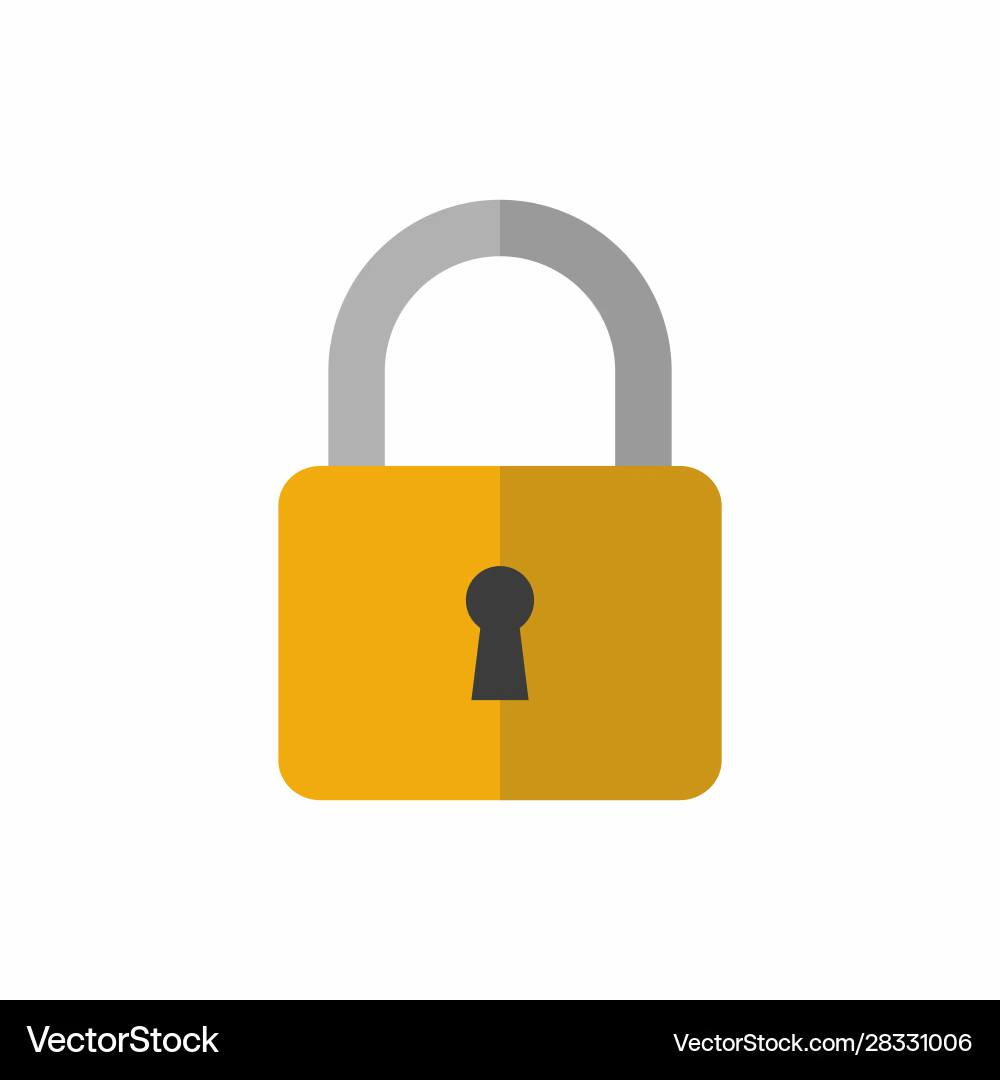
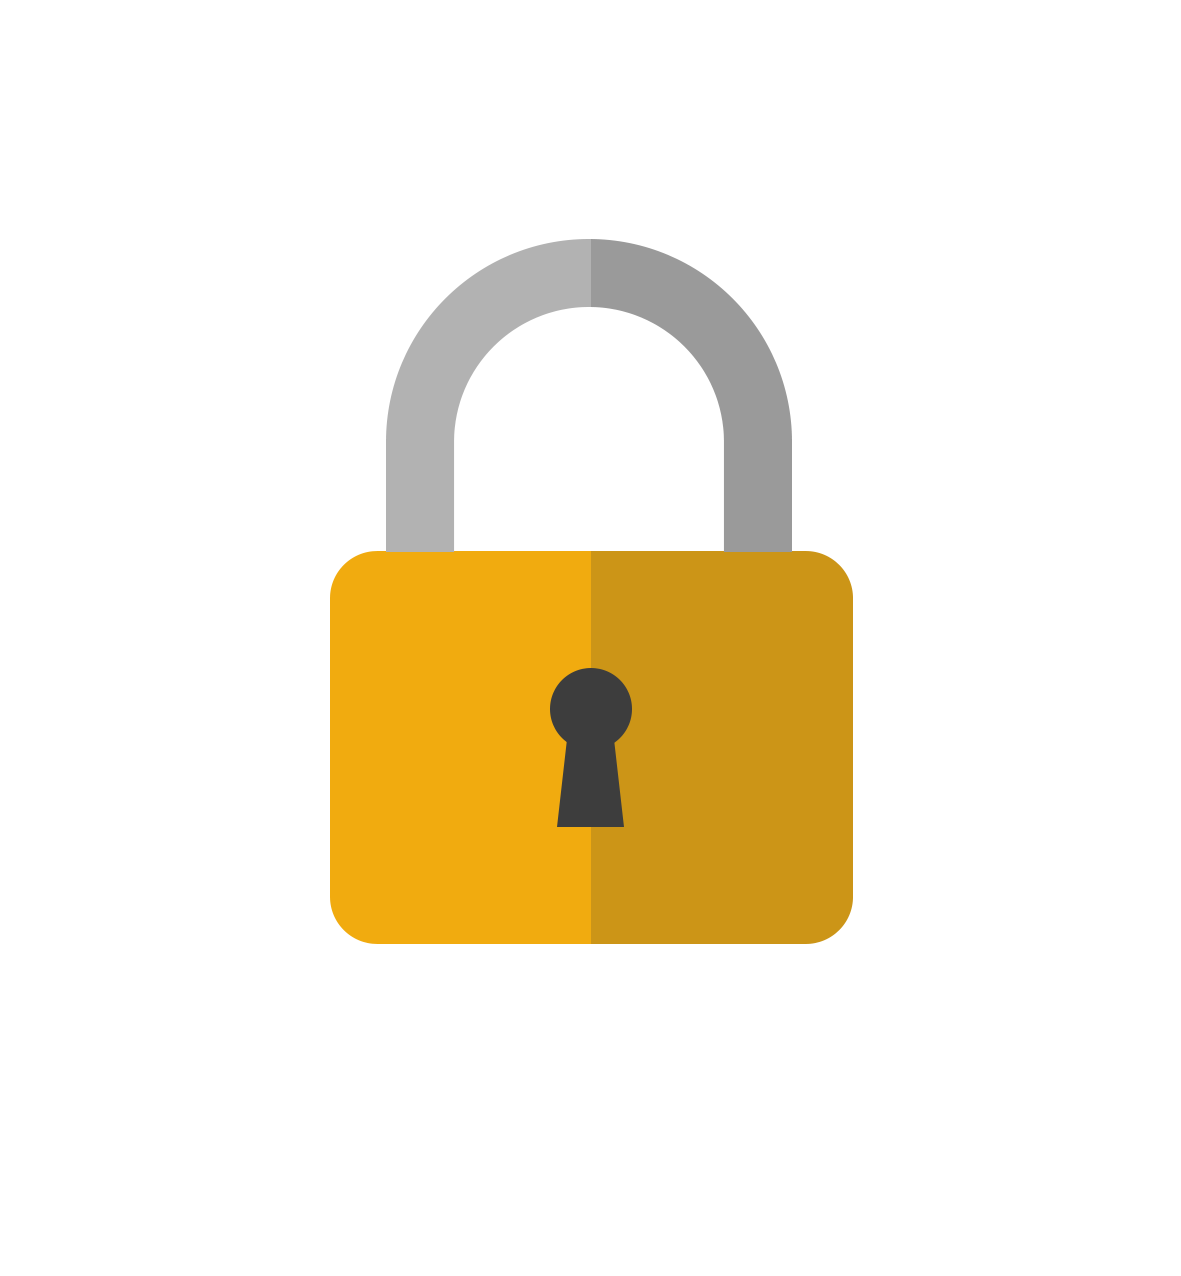
hfg

diff --git a/frontend/components/ui/VipPaywallModal.tsx b/frontend/components/ui/VipPaywallModal.tsx
@@ -1,5 +1,6 @@
 "use client";
 
+import Image from "next/image";
 import { useEffect, useId, useRef } from "react";
 
 type VipPaywallModalProps = {
@@ -80,23 +81,14 @@ export function VipPaywallModal({ open, onClose }: VipPaywallModalProps) {
           </div>
 
           <div className="mt-6 flex items-center justify-center">
-            <svg
-              xmlns="http://www.w3.org/2000/svg"
-              viewBox="0 0 24 24"
-              className="h-[100px] w-[100px] sm:h-[120px] sm:w-[120px]"
-              aria-hidden="true"
-            >
-              <rect x="5" y="11" width="14" height="10" rx="2" fill="#F7A83B" />
-              <path
-                d="M8 11V7a4 4 0 1 1 8 0v4"
-                stroke="#F7A83B"
-                strokeWidth="2.2"
-                strokeLinecap="round"
-                fill="none"
-              />
-              <circle cx="12" cy="16" r="1.5" fill="#0b0d0c" />
-              <line x1="12" y1="17.5" x2="12" y2="19" stroke="#0b0d0c" strokeWidth="1.5" strokeLinecap="round" />
-            </svg>
+            <Image
+              src="/assets/lock.jpg"
+              alt="Locked"
+              width={120}
+              height={120}
+              className="object-contain"
+              priority
+            />
           </div>
 
           <p className="mt-6 text-center font-inter text-[15px] sm:text-[16px] leading-[1.5] text-white/85">
